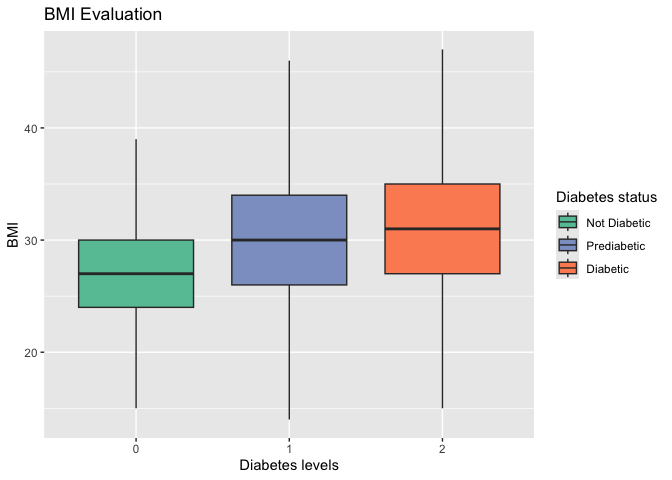
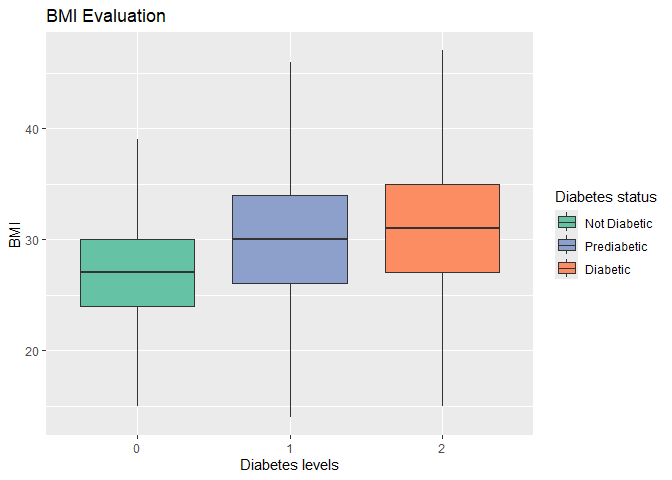
putting in my final question and plots

diff --git a/README.md b/README.md
@@ -221,6 +221,7 @@ health_data <- health_data %>% mutate(
 
 ``` r
 library(ggplot2)
+library(RColorBrewer)
 ```
 
 #### How do health factors such as blood pressure and BMI affect an individuals chances of getting diabetes?
@@ -294,6 +295,7 @@ health_data |>
 ```
 
 <img src="README_files/figure-gfm/unnamed-chunk-5-1.png" width="50%" /><img src="README_files/figure-gfm/unnamed-chunk-5-2.png" width="50%" /><img src="README_files/figure-gfm/unnamed-chunk-5-3.png" width="50%" />
+
 These charts show that your BMI will decrease by being more active and
 eating healthier. By doing these things, people will become healthier,
 which will lead them to be less prone to diabetes. By being healthier,
@@ -326,11 +328,12 @@ health_data |> ggplot(aes(x = Stroke, fill = Diabetes_012)) +
   labs(title = "Stroke Evaluation", x = "Levels of Stroke", y = "count", fill = "Diabetes status")
 ```
 
-![](README_files/figure-gfm/unnamed-chunk-6-1.png)<!-- --> As seen in
-this chart, the risk of getting a stroke while having diabetes is much
-higher. This is a very scary but also important insight, as it provides
-individuals’ motivation to stay healthy and to be aware of the effects
-of diabetes.
+![](README_files/figure-gfm/unnamed-chunk-6-1.png)<!-- -->
+
+As seen in this chart, the risk of getting a stroke while having
+diabetes is much higher. This is a very scary but also important
+insight, as it provides individuals’ motivation to stay healthy and to
+be aware of the effects of diabetes.
 
 How does this vary by age?
 
@@ -342,8 +345,9 @@ health_data |> ggplot(aes(x = Stroke, fill = Diabetes_012)) +
   labs(title = "Stroke Evaluation by Age", x = "Levels of Stroke", y = "count", fill = "Diabetes status") + facet_wrap(~Age)
 ```
 
-![](README_files/figure-gfm/unnamed-chunk-7-1.png)<!-- --> This idea
-that diabetes puts you at risk for a stroke remains consistent
+![](README_files/figure-gfm/unnamed-chunk-7-1.png)<!-- -->
+
+This idea that diabetes puts you at risk for a stroke remains consistent
 throughout each age group, along with some other alarming statistics.
 Individuals in their late teens and early twenties who would never have
 to worry about having a stroke because of their age now have to be aware
@@ -359,10 +363,11 @@ health_data |> ggplot(aes(x = HeartDiseaseorAttack, fill = Diabetes_012)) +
   labs(title = "Heart Disease/Attack Evaluation", x = "Levels of Heart Disease/Attack", y = "count", fill = "Diabetes status")
 ```
 
-![](README_files/figure-gfm/unnamed-chunk-8-1.png)<!-- --> As seen in
-this chart, the risk of having a heart attack or heart disease while
-having diabetes is much higher and similar to that of a stroke. Again,
-this is a very scary but also important insight.
+![](README_files/figure-gfm/unnamed-chunk-8-1.png)<!-- -->
+
+As seen in this chart, the risk of having a heart attack or heart
+disease while having diabetes is much higher and similar to that of a
+stroke. Again, this is a very scary but also important insight.
 
 How does this vary by age?
 
@@ -374,10 +379,12 @@ health_data |> ggplot(aes(x = HeartDiseaseorAttack, fill = Diabetes_012)) +
   labs(title = "Heart Disease/Attack Evaluation by Age", x = "Levels of Heart Disease/Attack", y = "count", fill = "Diabetes status") + facet_wrap(~Age)
 ```
 
-![](README_files/figure-gfm/unnamed-chunk-9-1.png)<!-- --> Similar to
-the stroke graphs, the idea that diabetes has an impact on heart
-disease/attacks can be seen in every age group. Also, note that younger
-individuals are at risk, which is typically unheard of at this age.
+![](README_files/figure-gfm/unnamed-chunk-9-1.png)<!-- -->
+
+Similar to the stroke graphs, the idea that diabetes has an impact on
+heart disease/attacks can be seen in every age group. Also, note that
+younger individuals are at risk, which is typically unheard of at this
+age.
 
 Diabetes is a very serious disease, and individuals need to be aware of
 the health risks it can bring in order to stay healthy. Being healthy is
@@ -579,8 +586,53 @@ health_data %>% filter(
   scale_fill_manual(values = c("#e78ac3", "#a6d854","#ffd92f"), labels = c("0" = "No Fruits or Veggies", "1" = "Some Fruits or Veggies", "2" = "Both Fruits and Veggies")
   ) +
   labs(title = "Days of Poor Mental Health and Diet", x = "Num days poor mental health in last 30 days", y = "count", fill = "Quality of Diet")
+
+
+health_data %>% filter(
+  MentHlth != 0
+) %>% 
+  ggplot(aes(x = Fruits_and_Veggies, y = MentHlth, fill = Fruits_and_Veggies)) +
+  geom_boxplot(staplewidth = 1) +
+  scale_fill_manual(values = c("#e78ac3", "#a6d854","#ffd92f"), labels = c("0" = "No Fruits or Veggies", "1" = "Some Fruits or Veggies", "2" = "Both Fruits and Veggies")
+  ) +
+  labs(title = "Days of Poor Mental Health and Diet", x = "Quality of Diet", y = "Num days poor mental health in last 30 days", fill = "Quality of Diet")
 ```
 
-    ## `stat_bin()` using `bins = 30`. Pick better value with `binwidth`.
+<img src="README_files/figure-gfm/unnamed-chunk-16-1.png" width="50%" /><img src="README_files/figure-gfm/unnamed-chunk-16-2.png" width="50%" />
 
-![](README_files/figure-gfm/unnamed-chunk-16-1.png)<!-- -->
+We can see from the plots that those with a poor diet of no fruits and
+vegetables tend to report a higher number of days of poor mental health.
+As we’ve already seen, diet plays a very important role in the
+likelihood of one developing diabetes. Therefore, this connection to a
+poor diet could factor in to the relationship between mental health and
+diabetes.
+
+In the next plot will look at the relationship between mental health and
+physical activity levels.
+
+``` r
+health_data %>% filter(
+  MentHlth != 0
+) %>% ggplot(aes(x = MentHlth, fill = PhysActivity)) +
+  geom_histogram(color = "black") +
+  scale_fill_manual(values = c("#fb8072", "#80b1d3"), labels = c("0" = "No phys activity in last 30 days", "1" = "Phys activity in last 30 days")) +
+  labs(title = "Days of Poor Mental Health and Physical Activity", x = "Num days poor mental health in last 30 days", y = "count", fill = "Level of physical activity")
+
+
+health_data %>% filter(
+  MentHlth != 0
+) %>% ggplot(aes(x = PhysActivity, y = MentHlth, fill = PhysActivity)) +
+  geom_boxplot() +
+  scale_fill_manual(values = c("#fb8072", "#80b1d3"), labels = c("0" = "No phys activity in last 30 days", "1" = "Phys activity in last 30 days"))
+```
+
+<img src="README_files/figure-gfm/unnamed-chunk-17-1.png" width="50%" /><img src="README_files/figure-gfm/unnamed-chunk-17-2.png" width="50%" />
+
+From this plot it is very clear that those who are not physically active
+tend to report far more days of poor mental health compared to those who
+are physically active. we know that physical activity influences the
+development of diabetes, and now we can see a clear relationship between
+mental health and physical activity level. Like we concluded from the
+last plots when considering diet, the connection between mental health
+and physical activity level could be another reason why poor mental
+health is associated with higher rates of diabetes.
